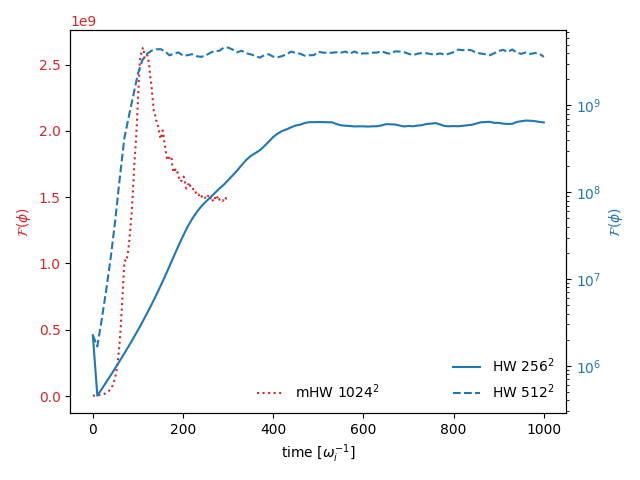
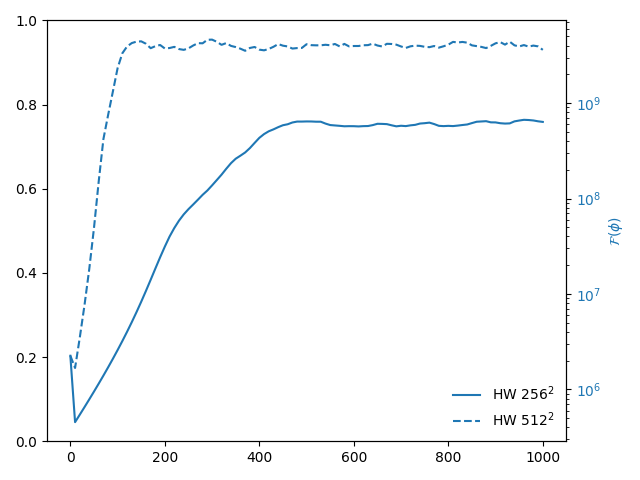
Removed mHW_N1024 from plots

diff --git a/plot_all.py b/plot_all.py
@@ -5,18 +5,18 @@ import matplotlib.pyplot as plt
 #------------------------------------ energy vs time
 fig, ax1 = plt.subplots()
 
-# mHW 1024
-# ax1.set_yscale('log')
-color = 'tab:red'
-ax1.set_xlabel(r"time [$\omega^{-1}_i$]")
-ax1.set_ylabel(r"$\mathcal{F} (\phi)$", color=color)
+# # mHW 1024
+# # ax1.set_yscale('log')
+# color = 'tab:red'
+# ax1.set_xlabel(r"time [$\omega^{-1}_i$]")
+# ax1.set_ylabel(r"$\mathcal{F} (\phi)$", color=color)
 
-(ttime, Energy) = np.loadtxt("./mHW_N1024/energy_vs_time.txt",dtype="float64",unpack=True)
-plt.plot(ttime, Energy, label="mHW $1024^2$", color=color, linestyle='dotted')
+# (ttime, Energy) = np.loadtxt("./mHW_N1024/energy_vs_time.txt",dtype="float64",unpack=True)
+# plt.plot(ttime, Energy, label="mHW $1024^2$", color=color, linestyle='dotted')
 
-ax1.tick_params(axis='y', labelcolor=color)
+# ax1.tick_params(axis='y', labelcolor=color)
 
-plt.legend(frameon=False, loc='lower center')
+# plt.legend(frameon=False, loc='lower center')
 
 
 
@@ -58,8 +58,8 @@ plt.plot(k, Energy, label="HW $256^2$")
 (k, Energy) = np.loadtxt("./HW_N512/energy/Spectrum_1000.txt",dtype="float64",unpack=True)
 plt.plot(k, Energy, label="HW $512^2$")
 
-(k, Energy) = np.loadtxt("./mHW_N1024/energy/Spectrum_0200.txt",dtype="float64",unpack=True)
-plt.plot(k, Energy, label="mHW $1024^2$")
+# (k, Energy) = np.loadtxt("./mHW_N1024/energy/Spectrum_0200.txt",dtype="float64",unpack=True)
+# plt.plot(k, Energy, label="mHW $1024^2$")
 
 plt.xlabel(r"$k$ $[\rho^{-1}_i]$")
 plt.ylabel(r"$\mathcal{F} (\phi)$")

diff --git a/HW_N512/convert_netCDF2png.py b/HW_N512/convert_netCDF2png.py
@@ -25,7 +25,8 @@ STIME    = 0 # starting time to save fields
 FTIME    = 1001 # starting time to take as last image
 ITIME    = 10  # skip between STIME, FTIME, ITIME
 NDNS     = 1
-DELT     = 1.0 
+DELT     = 1.0
+TSTART   = 0
 N        = 512
 L        = 50.176 
 delx     = L/N
@@ -243,7 +244,7 @@ for nrun in range(NDNS):
 
                 gradV_phi = np.sqrt(((cr(Img_phi, 1, 0) - cr(Img_phi, -1, 0))/(2.0*delx))**2 + ((cr(Img_phi, 0, 1) - cr(Img_phi, 0, -1))/(2.0*dely))**2)
 
-                ttime.append(t*DELT)
+                ttime.append(t*DELT + TSTART)
                 E = 0.5*L**2*np.sum(Img_n**2 + gradV_phi**2)
                 Energy.append(E)
                 

diff --git a/HW_N256/convert_netCDF2png.py b/HW_N256/convert_netCDF2png.py
@@ -26,6 +26,7 @@ FTIME    = 1001 # starting time to take as last image
 ITIME    = 10  # skip between STIME, FTIME, ITIME
 NDNS     = 1
 DELT     = 1.0 
+TSTART   = 0
 N        = 512
 L        = 50.176 
 delx     = L/N
@@ -243,7 +244,7 @@ for nrun in range(NDNS):
 
                 gradV_phi = np.sqrt(((cr(Img_phi, 1, 0) - cr(Img_phi, -1, 0))/(2.0*delx))**2 + ((cr(Img_phi, 0, 1) - cr(Img_phi, 0, -1))/(2.0*dely))**2)
 
-                ttime.append(t*DELT)
+                ttime.append(t*DELT + TSTART)
                 E = 0.5*L**2*np.sum(Img_n**2 + gradV_phi**2)
                 Energy.append(E)
                 

diff --git a/mHW_N1024/convert_2files.py b/mHW_N1024/convert_2files.py
@@ -9,13 +9,6 @@ from PIL import Image
 from boututils.datafile import DataFile
 from boutdata.collect import collect
 
-# sys.path.insert(n, item) inserts the item at the nth position in the list 
-# (0 at the beginning, 1 after the first element, etc ...)
-sys.path.insert(0, '../../../codes/TurboGenPY/')
-
-from tkespec import compute_tke_spectrum2d
-from isoturb import generate_isotropic_turbulence_2d
-
 
 
 SAVE_UVW = False

diff --git a/HW_N256/convert_2files.py b/HW_N256/convert_2files.py
@@ -60,9 +60,11 @@ path = "fields"
 isExist = os.path.exists(path)
 if not isExist:
     os.makedirs(path)
-else:
-    cmd = "rm fields/*"
-    os.system(cmd)
+# else:
+#     answer = input("Do you want to cancel previous files [y/N]?")
+#     if (answer=="y"):
+#         os.system("rm fields/*")
+    
 
 
 # run on data
